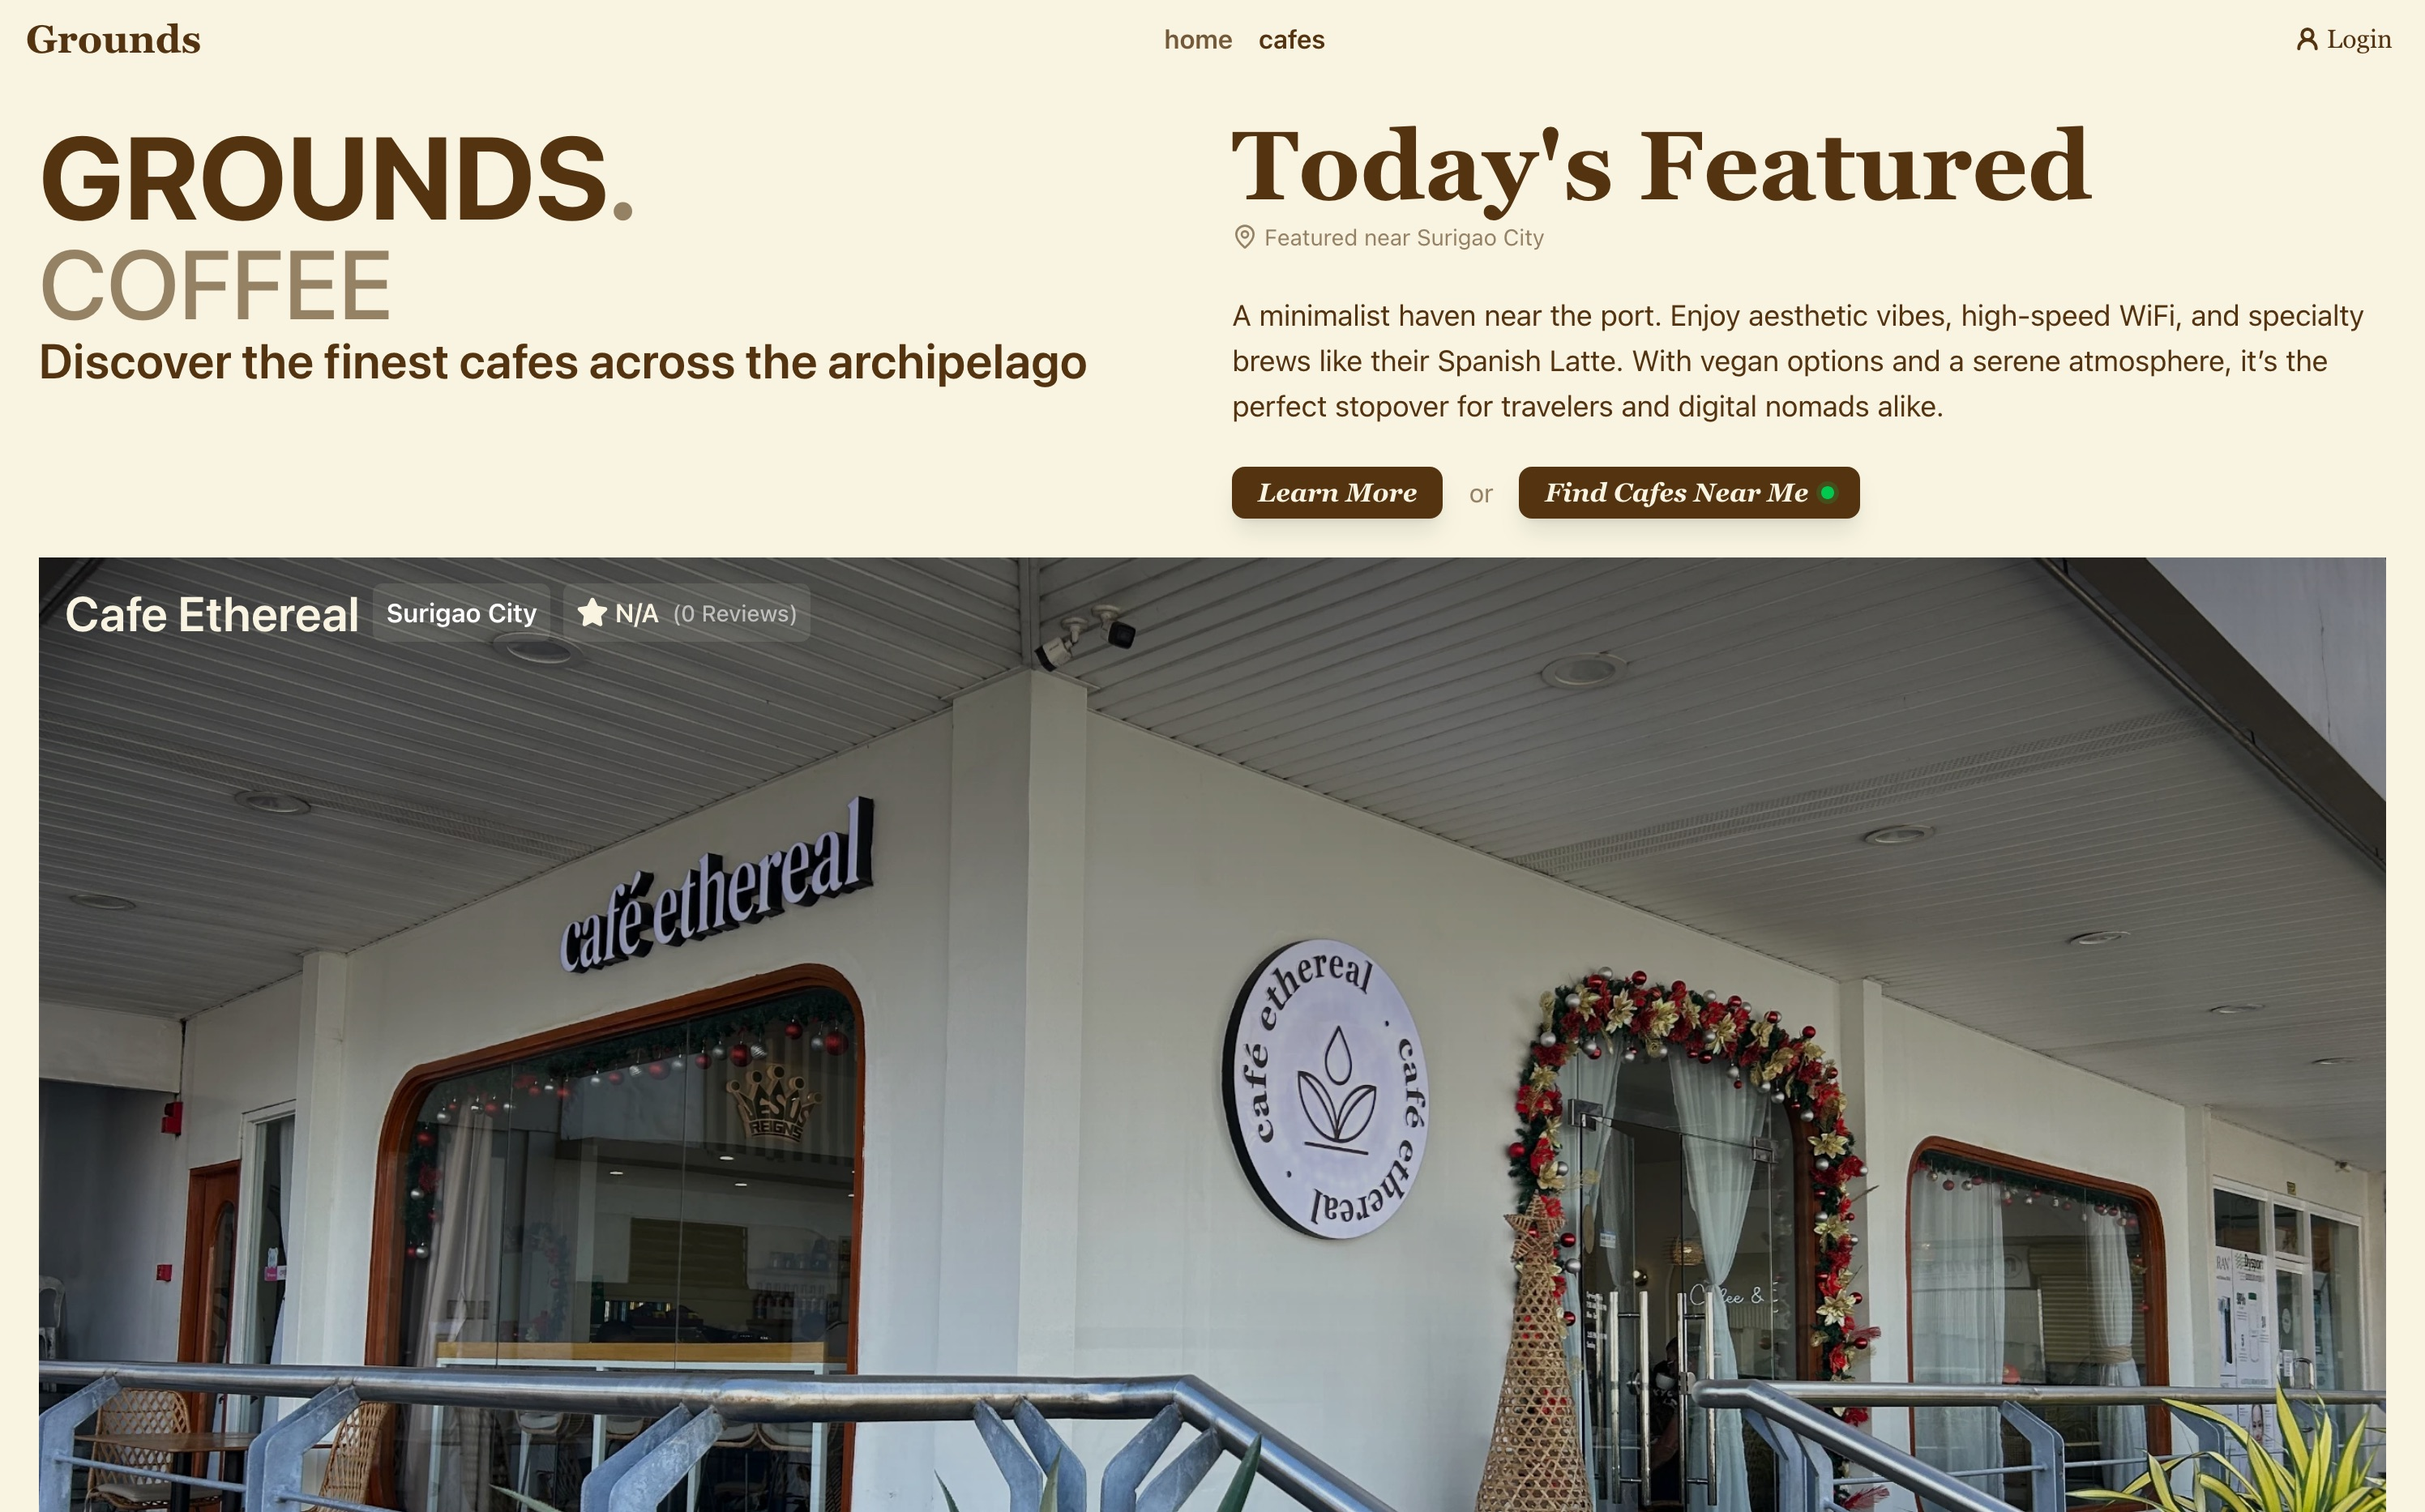
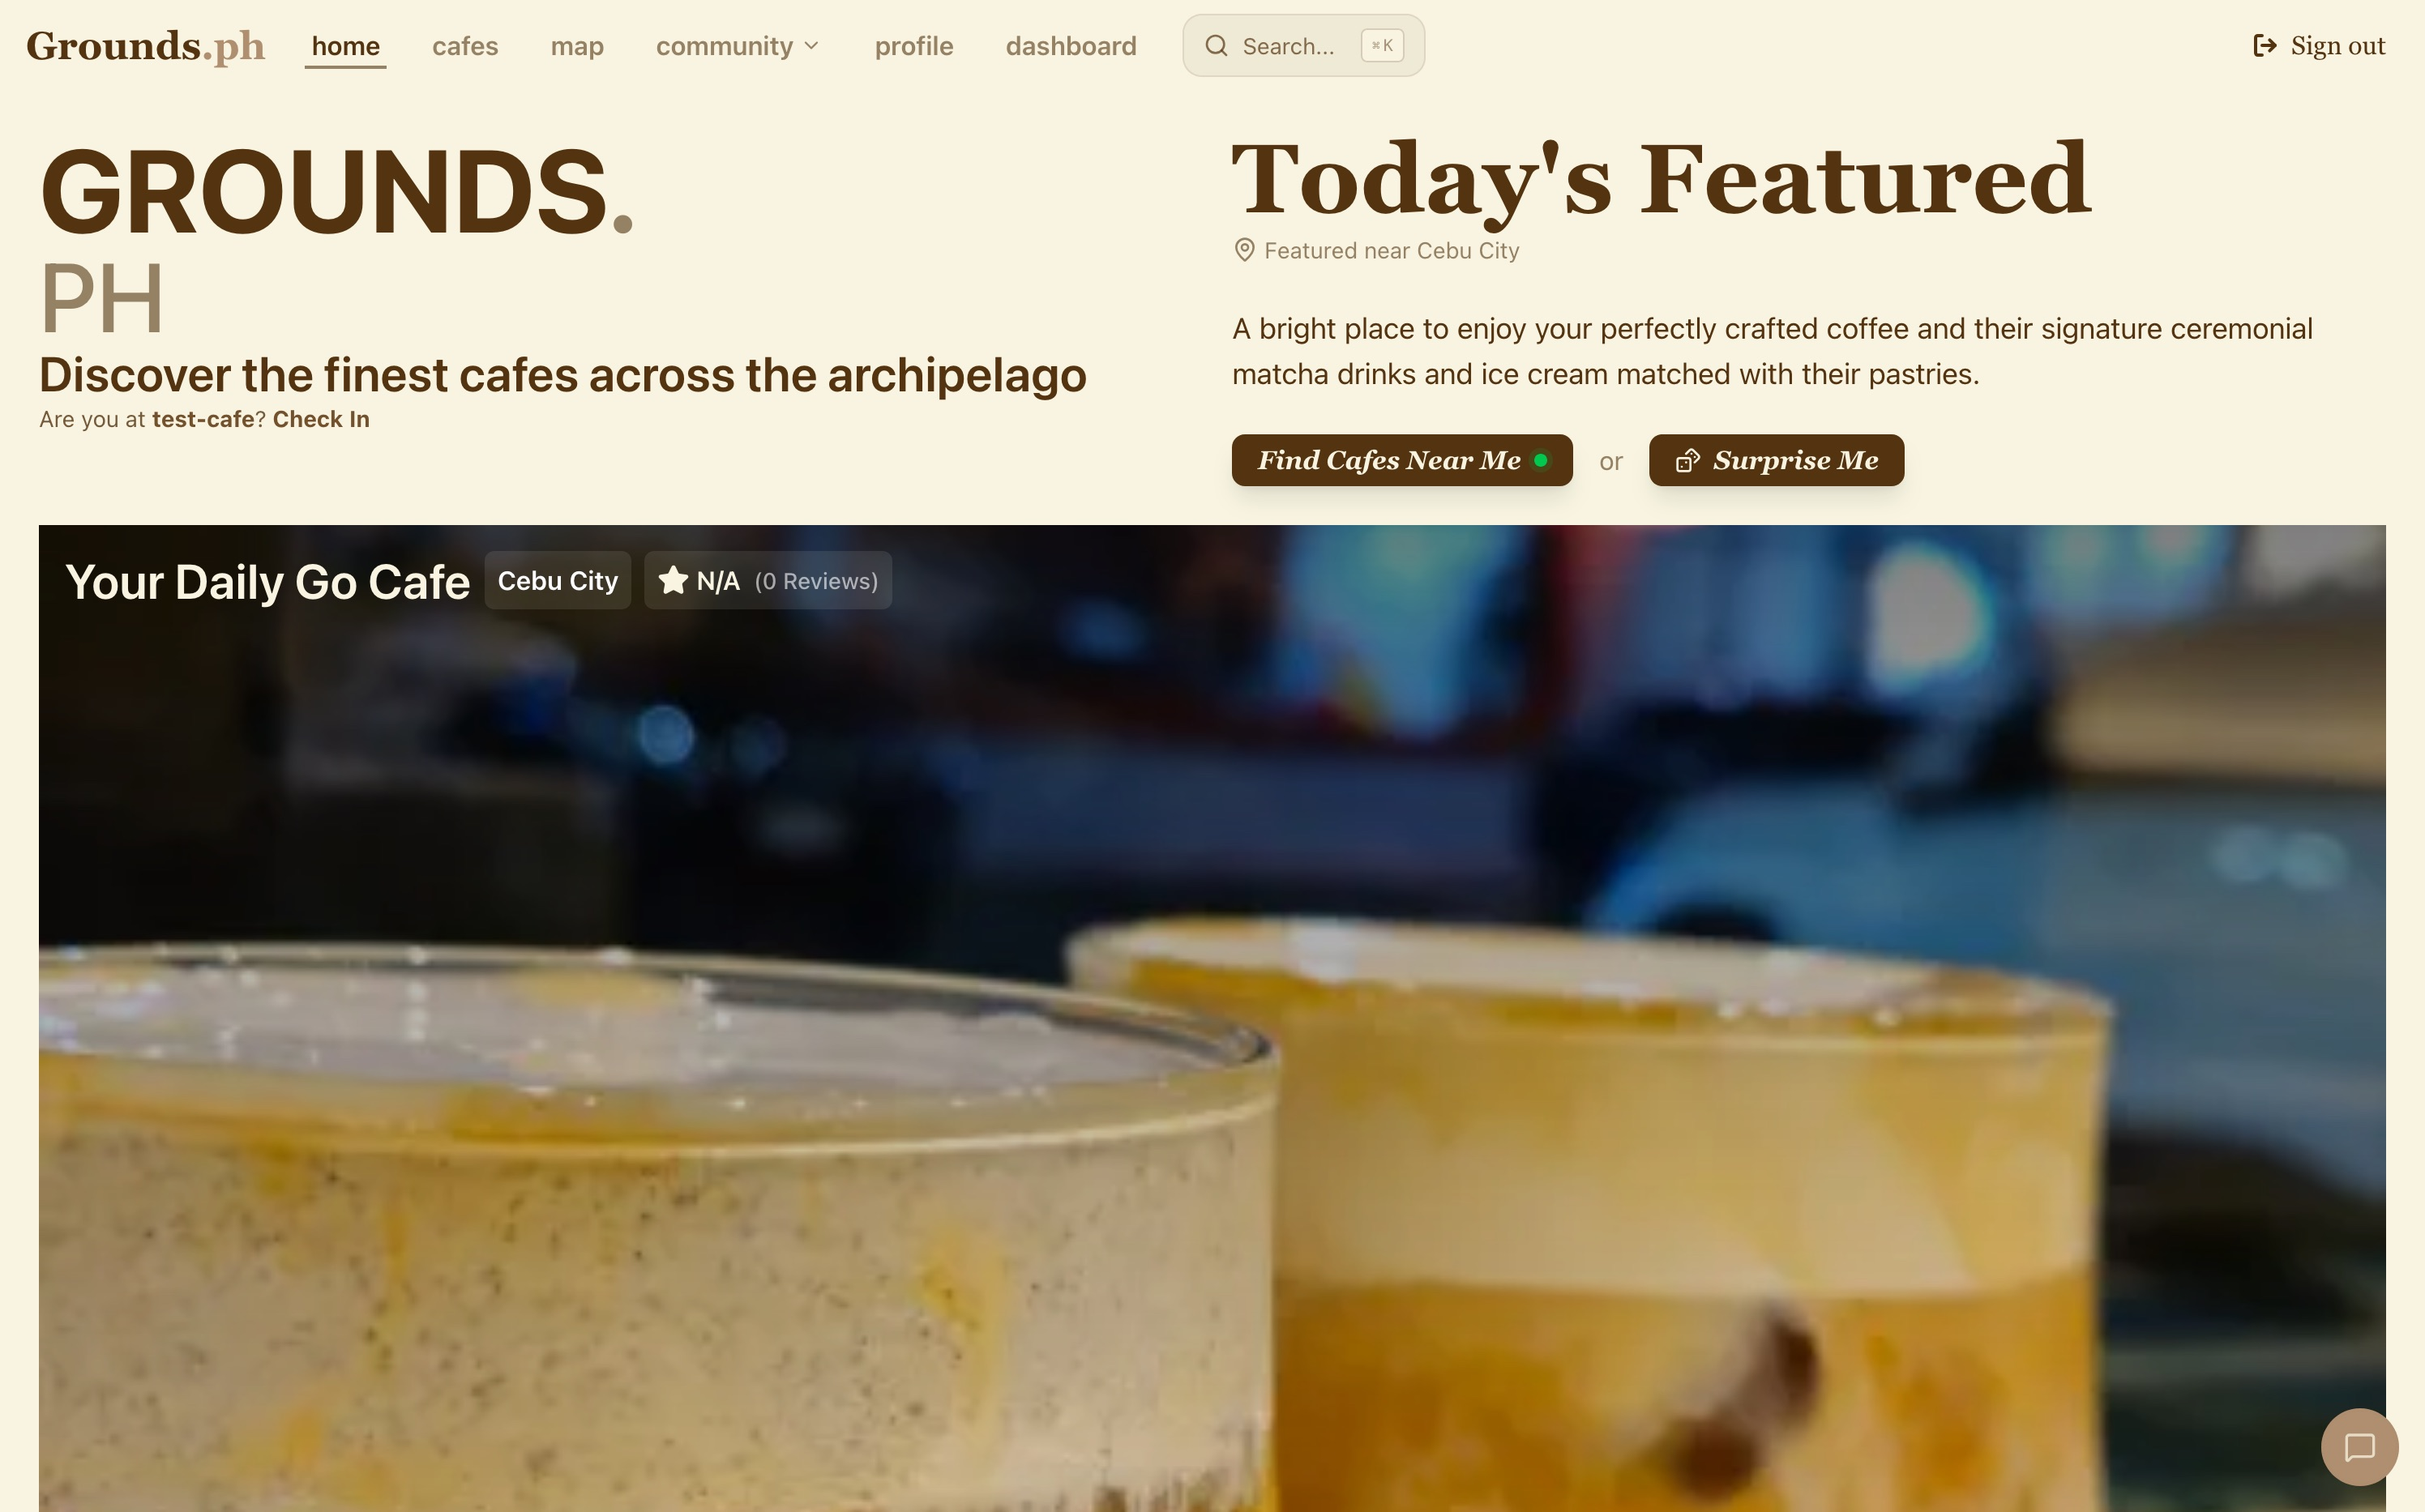
chore: change project img and fix incorrect url

diff --git a/src/utils/projects.ts b/src/utils/projects.ts
@@ -23,9 +23,9 @@ export const projects: Project[] = [
     {
         title: "Grounds.ph",
         tag: 'personal',
-        desc: 'Community Driver Cafe Catalog for the Philippines',
+        desc: 'Community Driven Cafe Catalog for the Philippines',
         img: grounds,
-        link: 'https://ground.ph',
+        link: 'https://grounds.ph',
         framework: 'NextJs'
     },
     {
